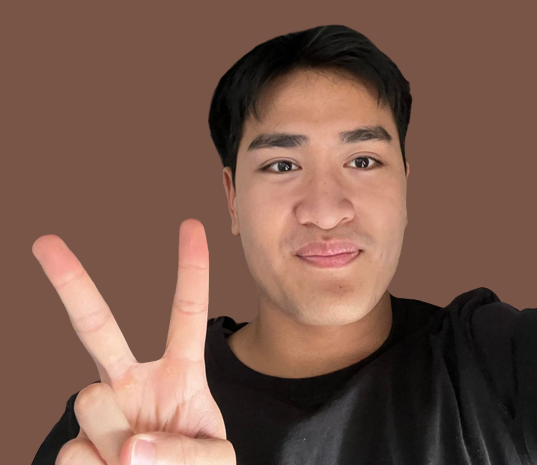
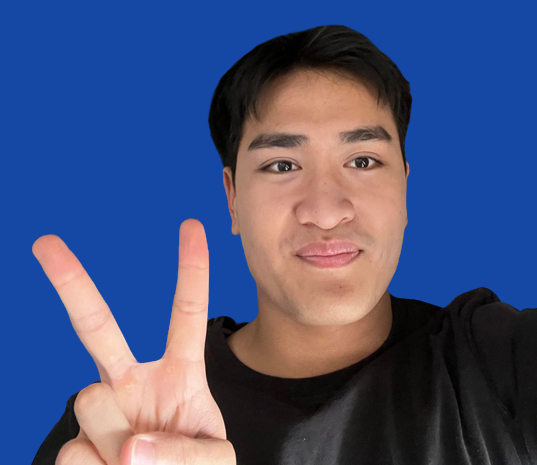
Add project section and website responsive.

diff --git a/src/components/Project.js b/src/components/Project.js
@@ -5,10 +5,8 @@ function Project() {
         <div className="project mb-10">
             <h1 className="text-center text-4xl text-custom-ffffff m-5 mb-8 font-bold">Project</h1>
 
-            <div className="project-content-main">
-
+            <div className="project-content-main flex flex-col items-center">
                 <div className="skills">
-                    
                     <div className="skills-carousel">
                         <i class='bx-icons bx bxl-react'></i>
                         <i class='bx-icons bx bxl-java' ></i>
@@ -44,6 +42,112 @@ function Project() {
                     </div>
                 </div>
 
+                <div className="project-card-container">
+
+                    <div className="card-row">
+                        <div className="project-card">
+                            <a target="_blank" rel="noreferrer noopener" href="https://github.com/bilele123123/inventory-application">
+                                <img alt="inventory-application" src="https://github.com/bilele123123/inventory-application/raw/master/assets/website_preview.gif"></img>
+                                <div className="card-content p-3">
+                                    <p className="text-xl font-bold pb-1">Inventory Management System</p>
+                                    <p>A full-stack application designed to streamline inventory tracking and management processes.
+                                        It provides a user-friendly interface for adding, updating, and managing various types of products within an inventory. </p>
+                                </div>
+                            </a>
+                        </div>
+
+                        <div className="project-card">
+                            <a href="https://github.com/bilele123123/mini-message-board" rel="noreferrer noopener" target="_blank">
+                                <img alt="inventory-application" src="https://github.com/bilele123123/mini-message-board/raw/main/public/images/preview.gif"></img>
+                                <div className="card-content p-3">
+                                    <p className="text-xl font-bold pb-1">Mini Message Board</p>
+                                    <p>The Mini Message Board is a simple web application that allows users to view and post messages on a public message board.
+                                        Users can add their own messages, which are then displayed on the website for others to see.</p>
+                                </div>
+                            </a>
+                        </div>
+
+
+                        <div className="project-card">
+                            <a href="https://bilele123123.github.io/memory-card/" rel="noreferrer noopener" target="_blank">
+                                <img alt="inventory-application" src="https://github.com/bilele123123/memory-card/raw/main/src/assets/game-preview.gif"></img>
+                                <div className="card-content p-3">
+                                    <p className="text-xl font-bold pb-1">MapleStory Memory Card Game</p>
+                                    <p>A web-based memory card game that test and challenge your memory skills.
+                                        Your objective is to avoid clicking on the same card.</p>
+                                </div>
+
+                            </a>
+                        </div>
+                    </div>
+
+                    <div className="card-row">
+                        <div className="project-card">
+                            <a href="https://bilele123123.github.io/Etch-a-Sketch/" rel="noreferrer noopener" target="_blank">
+                                <img alt="inventory-application" src="https://github.com/bilele123123/Etch-a-Sketch/raw/main/assets/Preview.png"></img>
+                                <div className="card-content p-3">
+                                    <p className="text-xl font-bold pb-1">Etch-a-Sketch</p>
+                                    <p>A fun web-based drawing application that functions similar to the Etch-a-Sketch toy.
+                                        It features multi-coloring tool, shading, eraser, resizing the canvas as well as clear canvas.</p>
+                                </div>
+                            </a>
+                        </div>
+
+                        <div className="project-card">
+                            <a href="https://bilele123123.github.io/Calculator/" rel="noreferrer noopener" target="_blank">
+                                <img alt="inventory-application" src="https://github.com/bilele123123/Calculator/raw/main/assets/preview02.png"></img>
+                                <div className="card-content p-3">
+                                    <p className="text-xl font-bold pb-1">Calculator</p>
+                                    <p>A web-based calculator app with a variety of operators to choose from, as well as a history feature to keep track of calculations.</p>
+                                </div>
+                            </a>
+                        </div>
+
+                        <div className="project-card">
+                            <a href="https://bilele123123.github.io/RockPaperScissors/" rel="noreferrer noopener" target="_blank">
+                                <img alt="inventory-application" src="https://github.com/bilele123123/RockPaperScissors/raw/main/assets/preview02.png"></img>
+                                <div className="card-content p-3">
+                                    <p className="text-xl font-bold pb-1">Rock-Paper-Scissors</p>
+                                    <p>A browser based Rock Paper Scissors game that allows the user to play against a computer for points.</p>
+                                </div>
+                            </a>
+                        </div>
+                    </div>
+
+                    <div className="card-row">
+                        <div className="project-card">
+                            <a href="https://bilele123123.github.io/cv-application/" rel="noreferrer noopener" target="_blank">
+                                <img alt="inventory-application" src="https://github.com/bilele123123/cv-application/raw/main/public/webpreview01.png"></img>
+                                <div className="card-content p-3">
+                                    <p className="text-xl font-bold pb-1">CV Builder</p>
+                                    <p>A CV builder web application that allows you to add and edit general information, educational experience and practical experience.</p>
+                                </div>
+                            </a>
+                        </div>
+
+                        <div className="project-card">
+                            <a href="https://bilele123123.github.io/Sign-Up-Form/" rel="noreferrer noopener" target="_blank">
+                                <img alt="inventory-application" src="https://github.com/bilele123123/Sign-Up-Form/raw/main/assets/preview01.png"></img>
+                                <div className="card-content p-3">
+                                    <p className="text-xl font-bold pb-1">Sign Up-Form</p>
+                                    <p>Simple clean sign-up form for an imaginary service.</p>
+                                </div>
+                            </a>
+                        </div>
+
+                        <div className="project-card">
+                            <a href="https://bilele123123.github.io/Library/" rel="noreferrer noopener" target="_blank">
+                                <img alt="inventory-application" src="https://github.com/bilele123123/Library/raw/main/assets/webpreview01.gif"></img>
+                                <div className="card-content p-3">
+                                    <p className="text-xl font-bold pb-1">Library Catalog</p>
+                                    <p>A simple web-based library catalog app that allows you to track the books you've read. Some functions include adding book by title, author, page and read status.</p>
+                                </div>
+                            </a>
+                        </div>
+
+                    </div>
+
+                </div>
             </div>
         </div>
     );

diff --git a/src/App.css b/src/App.css
@@ -59,13 +59,13 @@
 }
 
 .nav-links:hover {
-    border-color: #785447;
+    border-color: #1547a5;
     transform: translateY(-1px);
-    color: #785447;
+    color: #1547a5;
 }
 
 .link-background {
-    background-color: #785447;
+    background-color: #1547a5;
     padding: 0.3rem;
     border-radius: 0.3rem;
     color: #fefeff;
@@ -110,19 +110,23 @@
     left: -5%;
     width: 100%;
     height: 100%;
-    border: 0.5rem solid #4d372f;
+    border: 0.5rem solid #103477;
     border-radius: 50rem 30rem;
     z-index: 1;
 }
 
 .typewriterEffect {
-    color: #785447;
+    color: #1547a5;
     font-weight: bold;
     font-size: 1.3rem;
 }
 
+.thai {
+    color: #1547a5;
+}
+
 .link-background-content {
-    background-color: #785447;
+    background-color: #1547a5;
     padding: 0.5rem;
     border-radius: 0.5rem;
     color: #fefeff;
@@ -135,7 +139,7 @@
 .link-background-content-portfolio {
     padding: 0.5rem;
     border-radius: 0.5rem;
-    color: #785447;
+    color: #1547a5;
     font-size: 1.25rem;
     font-weight: bold;
     transition: transform 0.2s ease-in-out;
@@ -375,6 +379,7 @@
 }
 
 .skills {
+    max-width: 75%;
     width: 75%;
     background-color: rgba(0, 0, 0, 0.1);
     overflow: hidden;
@@ -407,5 +412,78 @@
     }
 }
 
+.project-card-container {
+    max-width: 75%;
+    display: flex;
+    flex-direction: column;
+    justify-content: center;
+}
+
+.card-row {
+    display: flex;
+    justify-content: flex-start;
+    width: 100%;
+    margin-bottom: 1rem;
+}
+
+.project-card {
+    background-color: rgba(0, 0, 0, 0.1);
+    border-radius: 2rem;
+    width: 32%;
+    max-width: 32%;
+    border: white solid 1px;
+    margin: 0 0.5rem;
+    box-sizing: border-box;
+    display: inline-block;
+    padding: 0;
+    transition: transform 0.2s ease-in-out;
+}
+
+.project-card img {
+    object-fit: contain;
+    border-radius: 2rem 2rem 0 0;
+}
+
+.content-link {
+    display: flex;
+    justify-content: space-evenly;
+}
+
+.card-content {
+    height: 13rem;
+}
+
+
+.project-card:hover {
+    transform: translateY(-5px);
+}
+
+@media screen and (max-width: 1780px) {
+    .card-content {
+        font-size: 0.8rem;
+    }
+}
+
+@media screen and (max-width: 1380px) {
+    .project-card-container {
+        flex-direction: column;
+    }
+    .card-row {
+        flex-direction: column;
+        justify-content: center;
+        align-items: center;
+    }
+    .project-card {
+        max-width: 85%;
+        min-width: 85%;
+        margin: 1rem 0;
+    }
+}
+
+@media screen and (max-width: 500px) {
+    .card-content {
+        font-size: 0.4rem;
+    }
+}
 /* PROJECT SECTION END */
 

diff --git a/src/components/header/HeaderWelcome.js b/src/components/header/HeaderWelcome.js
@@ -21,7 +21,7 @@ function HeaderWelcome() {
                 </div>
                 <div className="flex flex-col justify-center text-left p-20">
                     <p className="text-4xl font-bold mb-3">Hello!</p>
-                    <p className="text-2xl mb-8">I'm {" "}<span className="inline-block hover:rotate-45 transition duration-300 text-4xl text-custom-785447 font-bold">Thai Le</span>, I am a
+                    <p className="text-2xl mb-8">I'm {" "}<span className="thai inline-block hover:rotate-45 transition duration-300 text-4xl font-bold">Thai Le</span>, I am a
                         <span className="typewriterEffect"><TypewriterComponent /></span></p>
                     <ul className="flex">
                         <li><a className="link-background-content" href="/contact">Contact</a></li>

diff --git a/src/components/header/Header.js b/src/components/header/Header.js
@@ -20,7 +20,7 @@ function Header() {
         <div className={`md:flex items-center justify-between ${showMenu ? "hidden" : "hidden"} `}>
           <div className="nav-name">Thai.</div>
           <ul className="flex space-x-4">
-            <li><a href="/" className="nav-links">Home</a></li>
+            <li><a href="/" className="nav-links text-[#1547a5]">Home</a></li>
             <li><a href="/about" className="nav-links">About</a></li>
             <li><a href="/experience" className="nav-links">Experience</a></li>
             <li><a href="/projects" className="nav-links">Project</a></li>

diff --git a/tailwind.config.js b/tailwind.config.js
@@ -6,7 +6,8 @@ module.exports = {
       colors: {
         custom: {
           785447: '#785447',
-          ffffff: '#ffffff'
+          ffffff: '#ffffff',
+          darkblue: '1547a5'
         }
       }
     },
